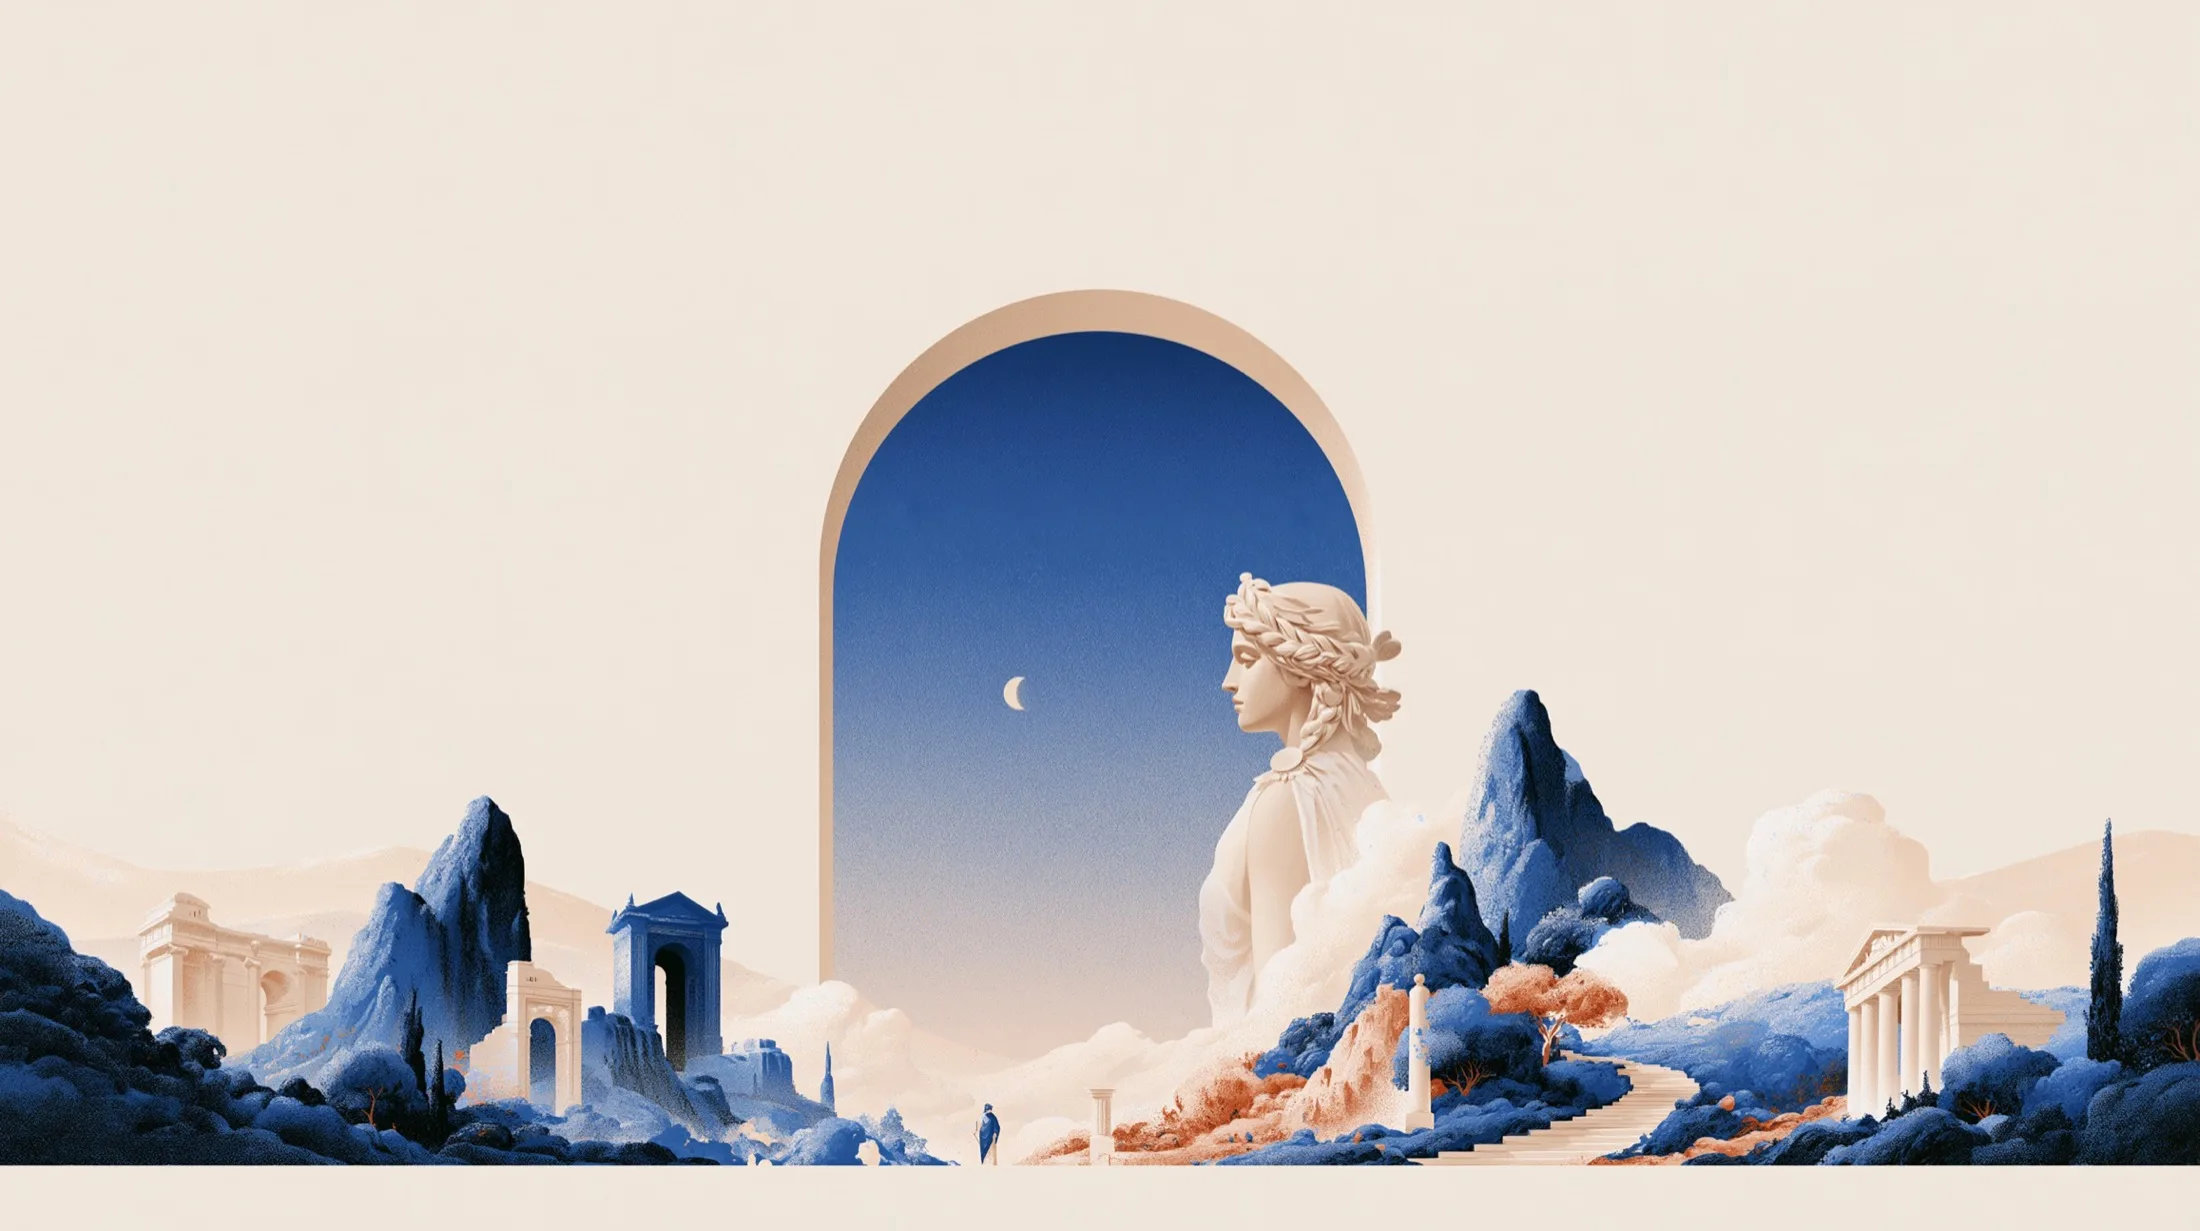
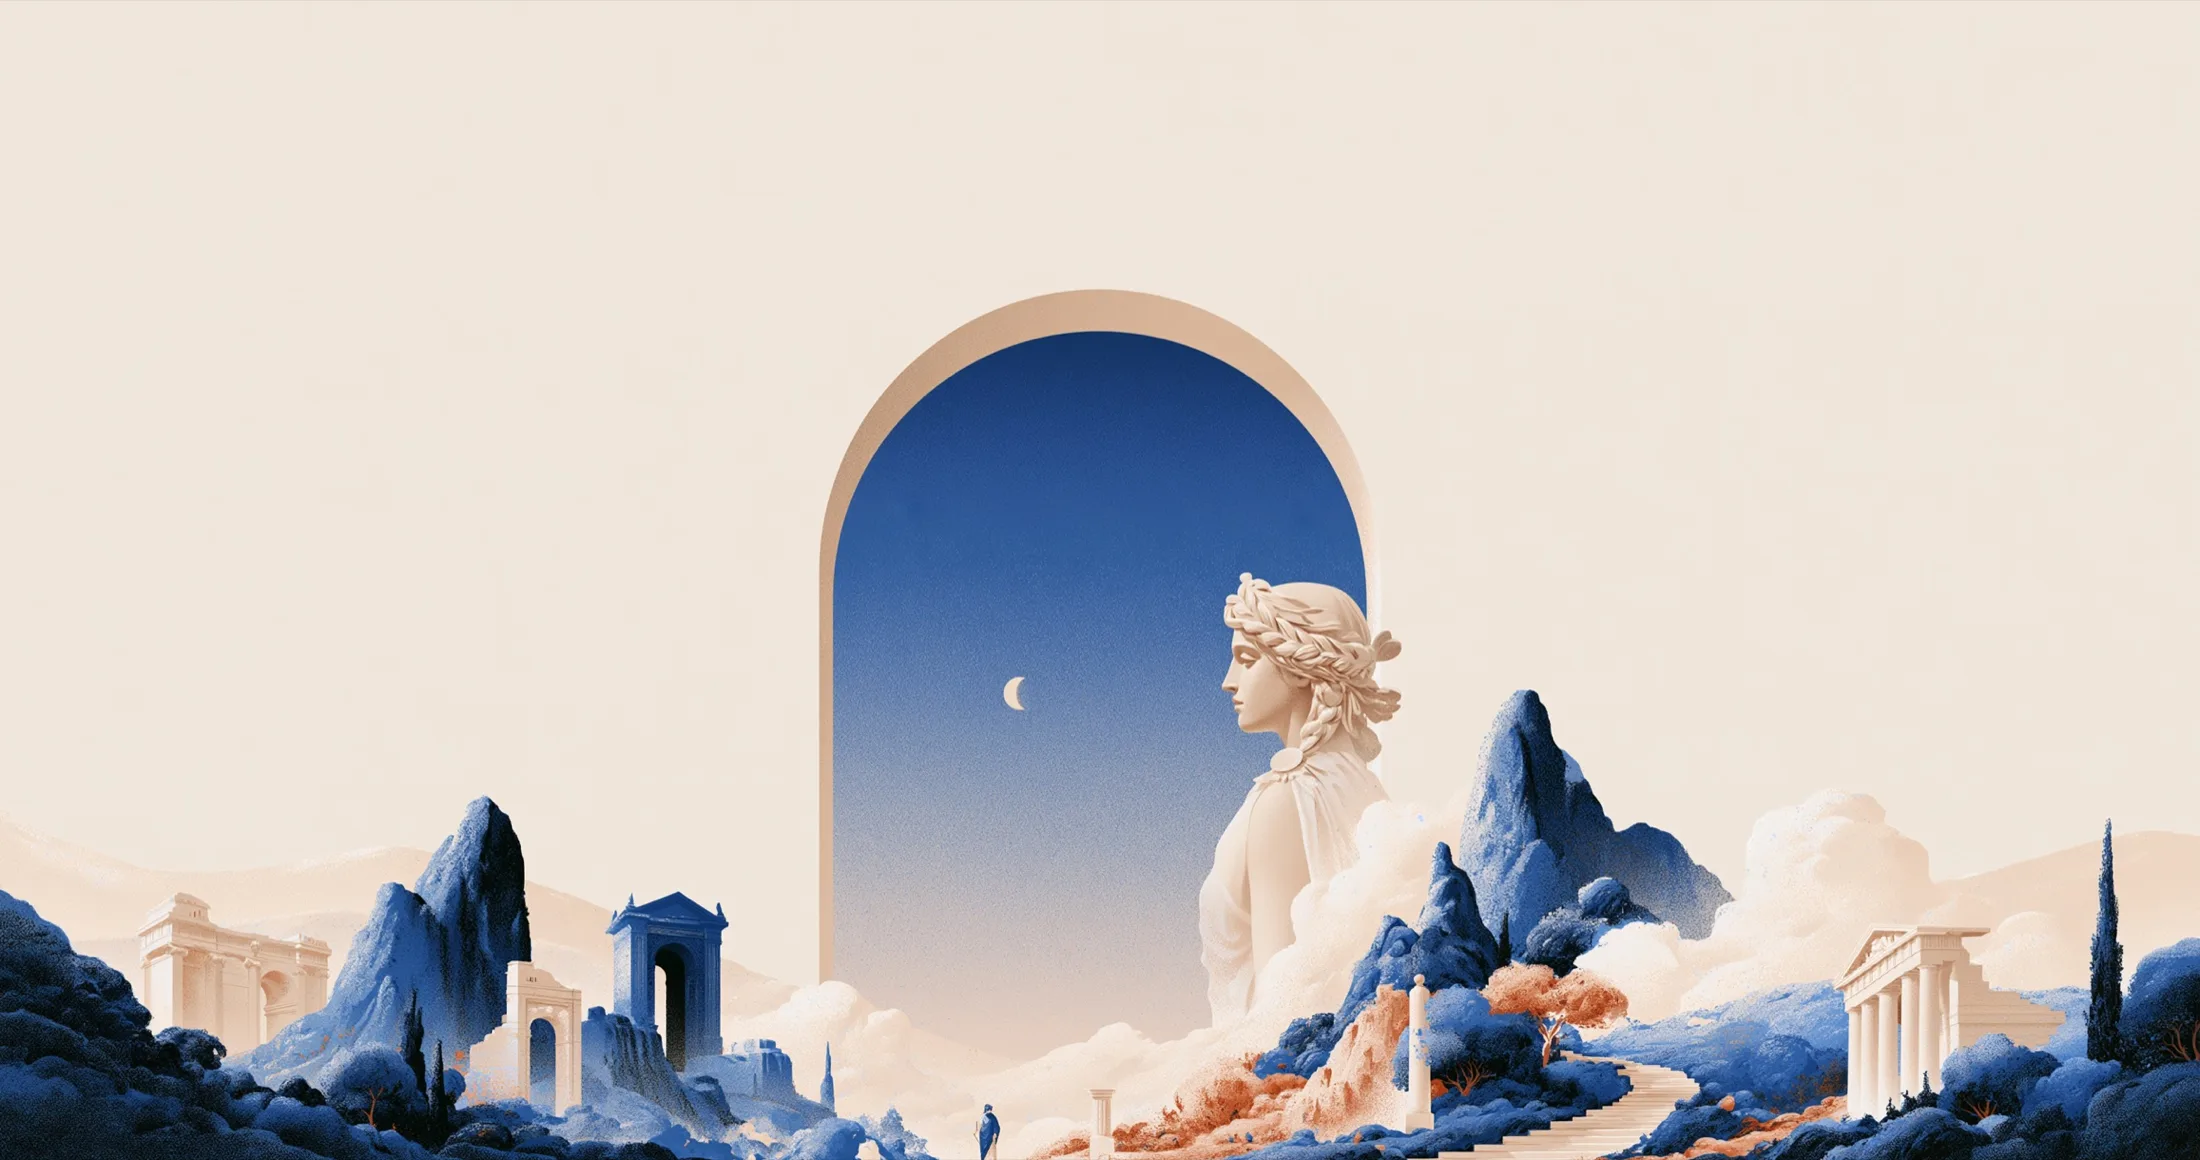
fix: crop the hero seam and stop cropping/overlapping the artwork
- Crop a ~70px flat cream padding band baked into the bottom of the
  light desktop hero source, which showed as a visible seam against
  the page background.
- Switch the hero atmosphere plate from object-fit: cover (which
  cropped an arbitrary, viewport-height-dependent slice of the
  artwork) to object-fit: contain, so the full illustration always
  renders at its true aspect ratio, never cropped.
- Nudge the brand wordmark 2px to correct its optical vertical
  alignment against the logo mark.

Changed region(s): [[0.0, 0.4655, 1.0, 1.0], [0.3709, 0.2172, 0.6182, 0.4655]]

diff --git a/src/app/globals.css b/src/app/globals.css
@@ -193,10 +193,20 @@ input {
 
 .logo-mark {
   display: block;
+  flex: none;
   width: 30px;
   height: 30px;
   border-radius: 50%;
   object-fit: contain;
+}
+
+/* Newsreader's line-box for "Cardea" (no descenders) sits with its ink
+   optically higher than a plain flex-centered line-height:1 box; nudge the
+   wordmark down a touch so its visual center matches the mark's. */
+.brand span,
+.site-footer__brand span {
+  position: relative;
+  top: 2px;
 }
 
 .primary-nav,
@@ -390,16 +400,19 @@ html[data-theme="dark"] .theme-toggle__sun { display: grid; }
   display: none;
 }
 
+/* Absolutely positioned and layered behind the copy (z-index), so the
+   plate can bleed up under the headline the way the reference does. Sized
+   as a percentage of the hero box, but `object-fit: contain` on the img
+   means it is scaled to fit, never cropped -- the true aspect ratio is
+   always shown, just smaller or larger depending on the box. */
 .hero-atmosphere {
   position: absolute;
   inset: auto 0 0;
   z-index: 1;
   width: 100%;
-  height: 52%;
-  overflow: hidden;
-  opacity: 1;
-  -webkit-mask-image: linear-gradient(180deg, transparent 0, #000 15%, #000 100%);
-  mask-image: linear-gradient(180deg, transparent 0, #000 15%, #000 100%);
+  height: 68%;
+  -webkit-mask-image: linear-gradient(180deg, transparent 0, #000 5%, #000 100%);
+  mask-image: linear-gradient(180deg, transparent 0, #000 5%, #000 100%);
   transition: opacity 350ms ease;
 }
 
@@ -429,9 +442,8 @@ html[data-theme="dark"] .authority-image {
   width: 100%;
   height: 100%;
   display: block;
-  object-fit: cover;
+  object-fit: contain;
   object-position: center bottom;
-  transform: none;
 }
 
 .hero-canvas-anchor {
@@ -1205,8 +1217,7 @@ html[data-theme="dark"] .use-cases-section { background: #0a0a08; }
   .header-link, .header-cta { display: none; }
   .header-actions { gap: 8px; }
   .hero { height: max(820px, 100svh); min-height: 820px; }
-  .hero-atmosphere { inset: auto 0 0; width: 100%; height: 45%; -webkit-mask-image: linear-gradient(180deg, transparent 0, #000 14%, #000 100%); mask-image: linear-gradient(180deg, transparent 0, #000 14%, #000 100%); }
-  .hero-atmosphere img { width: 100%; height: 100%; object-position: center bottom; transform: none; }
+  .hero-atmosphere { height: 62%; }
   .hero-copy { padding-top: 30px; }
   .hero-copy__inner { width: 100%; }
   .hero-heading--desktop { display: none; }
@@ -1281,7 +1292,6 @@ html[data-theme="dark"] .use-cases-section { background: #0a0a08; }
 }
 
 @media (max-width: 520px) {
-  .hero { height: max(820px, 100svh); min-height: 820px; }
   .hero-copy { padding-top: 28px; }
   .hero h1 { font-size: clamp(46px, 12.8vw, 52px); }
   .hero-subhead { font-size: 15px; line-height: 1.38; }

diff --git a/src/app/page.tsx b/src/app/page.tsx
@@ -61,16 +61,6 @@ export default function Home() {
 
       <main id="main-content">
         <section className="hero" id="top" aria-labelledby="hero-title">
-          <picture className="hero-atmosphere hero-atmosphere--light">
-            <source media="(max-width: 820px)" srcSet="/images/cardea/hero-stage-mobile.webp" />
-            {/* A picture element keeps the monumental lower plate responsive without loading both crops. */}
-            <img src="/images/cardea/hero-stage-desktop.webp" alt="" width="2200" height="1231" fetchPriority="high" />
-          </picture>
-          <picture className="hero-atmosphere hero-atmosphere--dark">
-            <source media="(max-width: 820px)" srcSet="/images/cardea/hero-stage-mobile-dark.webp" />
-            {/* A hand-authored dark plate, not a filtered copy of the light artwork. */}
-            <img src="/images/cardea/hero-stage-desktop-dark.webp" alt="" width="2200" height="1238" />
-          </picture>
           <div className="hero-copy page-grid">
             <div className="hero-copy__inner">
               <h1 id="hero-title" aria-label="Turn Any Goal Into a Living Workspace">
@@ -89,6 +79,16 @@ export default function Home() {
               </div>
             </div>
           </div>
+          <picture className="hero-atmosphere hero-atmosphere--light">
+            <source media="(max-width: 820px)" srcSet="/images/cardea/hero-stage-mobile.webp" />
+            {/* A picture element keeps the monumental lower plate responsive without loading both crops. */}
+            <img src="/images/cardea/hero-stage-desktop.webp" alt="" width="2200" height="1160" fetchPriority="high" />
+          </picture>
+          <picture className="hero-atmosphere hero-atmosphere--dark">
+            <source media="(max-width: 820px)" srcSet="/images/cardea/hero-stage-mobile-dark.webp" />
+            {/* A hand-authored dark plate, not a filtered copy of the light artwork. */}
+            <img src="/images/cardea/hero-stage-desktop-dark.webp" alt="" width="2200" height="1238" />
+          </picture>
           <span id="canvas" className="hero-canvas-anchor" aria-hidden="true" />
         </section>
 
